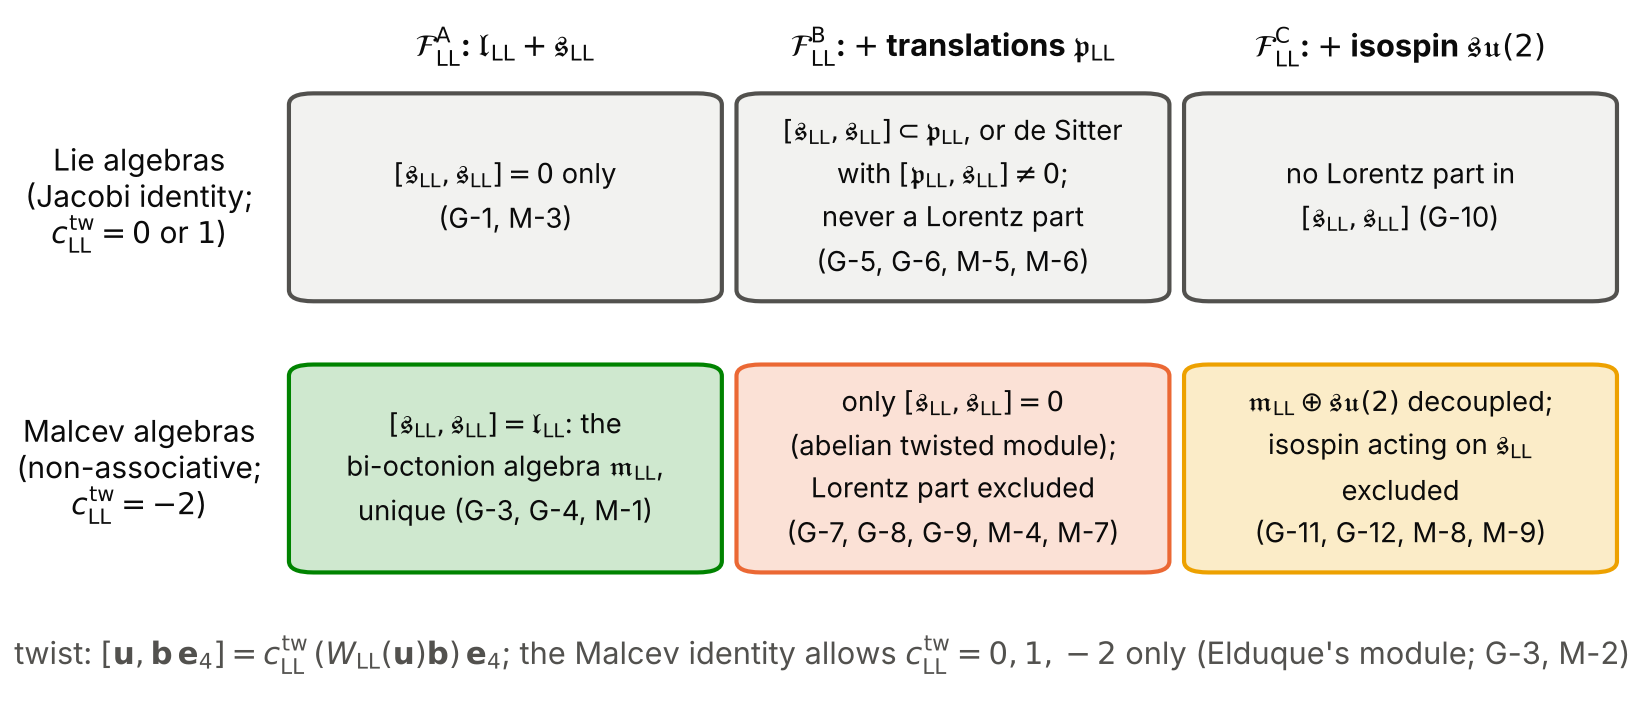
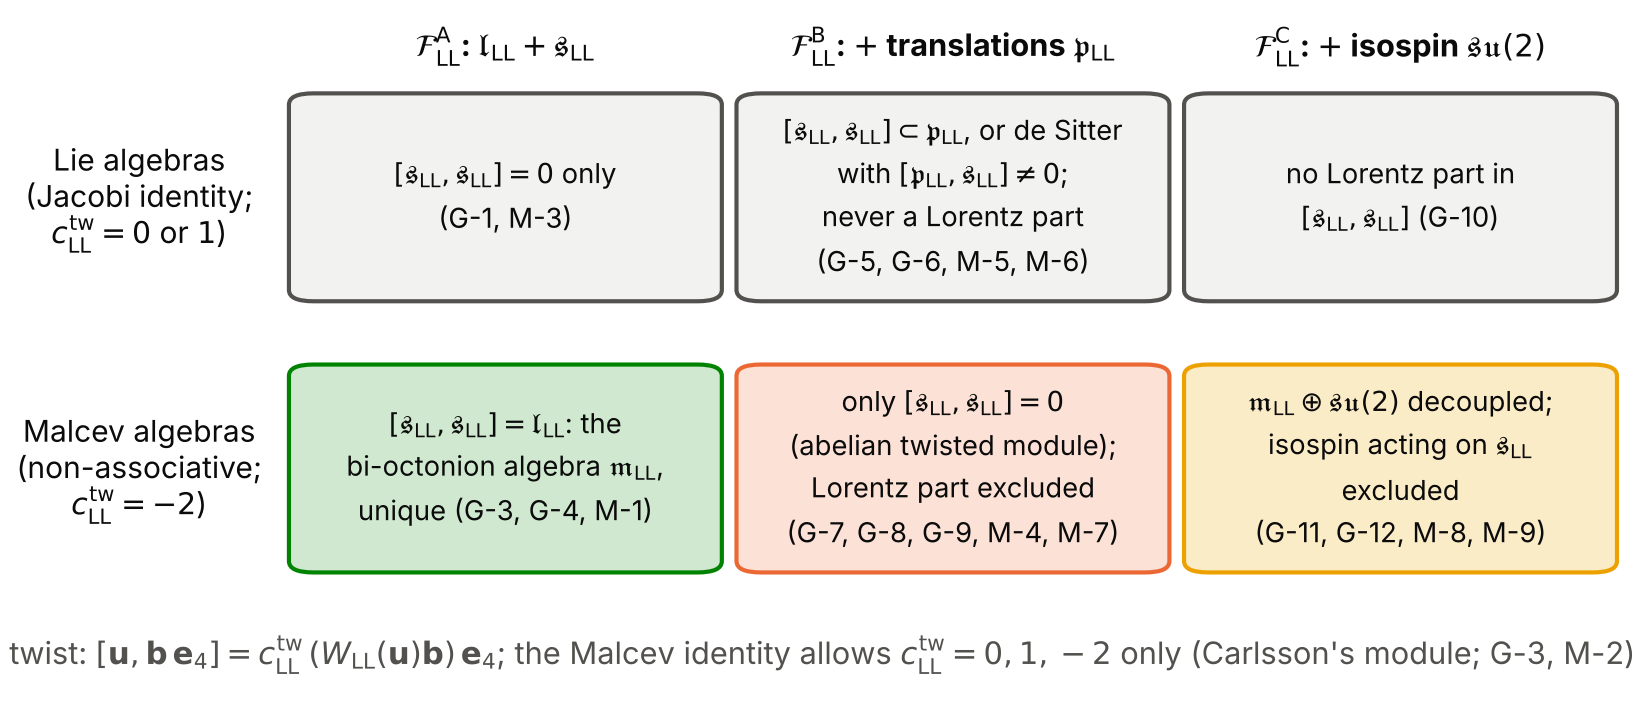
Revision_SuperLoop, stage 3b: two corrections in the program and a figure
* Check M-2 and Fig. classification: the non-Lie Malcev module of sl(2)
  with the twist -2 is Carlsson's (J. Reine Angew. Math. 281, 199 (1976)),
  not Elduque's; credit corrected.
* Check S-7: the charge of the condensed pairs is now computed for the same
  order parameter dvec = (1, i, 0) whose stabilizer is computed (before, the
  charge was taken from (1, -i, 0)); the condensate of that state consists
  of two isospin-up spinor charges, Q_LL = +1.  The reports print the
  charges as numbers (0, +1, -1).
* The theorems of the superfluid are labelled SF1 to SF4 (S1 to S4 are the
  names of provenance documents of the main project).

Program: 62 of 62 checks pass.

Claude-Session: https://claude.ai/code/session_014iqUsHxBwoPN6qWYQYTGBy

Changed region(s): [[0.0, 0.8973, 0.9921, 0.9592]]

diff --git a/Revision_SuperLoop/code/superloop-rs/src/superfluid.rs b/Revision_SuperLoop/code/superloop-rs/src/superfluid.rs
@@ -7,7 +7,7 @@
 //! isospin generators of this field from the bi-octonion product.
 //!
 //! Hamiltonian (units: momentum cutoff Lambda = 1 unless stated):
-//!   H = sum_q Psi_LL^dag (h(q) - mu) Psi_LL - (G/4) sum_iota Pi_iota^dag Pi_iota,
+//!   Hsf = sum_q Psi_LL^dag (h(q) - mu) Psi_LL - (G/4) sum_iota Pi_iota^dag Pi_iota,
 //!   h(q) = sum_j alpha_LL^j q^j + beta_LL m (x) 1_iso,   Pi_iota = Psi_LL^T Kch_iota Psi_LL,
 //! with the spin-zero (Lorentz-scalar) pair channels Kch_iota = C_LL gamma_ch (x) eps2 tau_iota
 //! (scalar, 0+) and Kch'_iota = C_LL (x) eps2 tau_iota (pseudoscalar, 0-), iota = 1,2,3 (an isospin
@@ -463,7 +463,7 @@ pub fn run() -> bool {
         }
         trip &= close(&acc, &scal(kk, c(2.0, 0.0)), 1e-11);
     }
-    ck.add("S-1", "Theorem S1 (spin-zero channels): the antisymmetric, Lorentz-invariant pair matrices on Dirac (x) isospin form a complex space of dimension 6, spanned by Kch_iota = C_LL gamma_ch (x) eps2 tau_iota (scalar 0+) and Kch'_iota = C_LL (x) eps2 tau_iota (pseudoscalar 0-), iota = 1,2,3; each is unitary and an isospin TRIPLET (Casimir 2): a spin-zero s-wave pair of spinor charges carries isospin 1 and electric charge Q_LL = +1, 0, -1", ch_ok && nullity == 12 && trip, format!("real nullity {} (= 6 complex dimensions)", nullity));
+    ck.add("S-1", "Theorem SF1 (spin-zero channels): the antisymmetric, Lorentz-invariant pair matrices on Dirac (x) isospin form a complex space of dimension 6, spanned by Kch_iota = C_LL gamma_ch (x) eps2 tau_iota (scalar 0+) and Kch'_iota = C_LL (x) eps2 tau_iota (pseudoscalar 0-), iota = 1,2,3; each is unitary and an isospin TRIPLET (Casimir 2): a spin-zero s-wave pair of spinor charges carries isospin 1 and electric charge Q_LL = +1, 0, -1", ch_ok && nullity == 12 && trip, format!("real nullity {} (= 6 complex dimensions)", nullity));
 
     // charges of the channels: Q_LL = T_LL^3 summed over the pair; Kch_3 pairs (up, down): 0; Kch_1 -+ i Kch_2 pair (up,up)/(down,down)
     let t3 = kron(&CMat::identity(4), &scal(&d.sig[3], c(0.5, 0.0)));
@@ -477,10 +477,11 @@ pub fn run() -> bool {
         }
         None
     };
+    let fq = |q: Option<f64>| -> String { match q { Some(v) if v > 0.5 => "+1".to_string(), Some(v) if v < -0.5 => "-1".to_string(), Some(_) => "0".to_string(), None => "none".to_string() } };
     let kplus = ks[0].sub(&scal(&ks[1], c(0.0, 1.0)));
     let kminus = ks[0].add(&scal(&ks[1], c(0.0, 1.0)));
     let qs = (qcharge(&ks[2]), qcharge(&kplus), qcharge(&kminus));
-    ck.add("S-2", "electric charge of the spin-zero channels (charge of the pair operator Psi_LL^T Kch Psi_LL, which annihilates two spinor charges): Kch_3 pairs up with down, charge 0; Kch_1 - i Kch_2 and Kch_1 + i Kch_2 pair up-up and down-down, charges +1 and -1", qs == (Some(0.0), Some(1.0), Some(-1.0)) || qs == (Some(0.0), Some(-1.0), Some(1.0)), format!("Q_LL(Kch_3) = {:?}, Q_LL(Kch_1 - i Kch_2) = {:?}, Q_LL(Kch_1 + i Kch_2) = {:?}", qs.0, qs.1, qs.2));
+    ck.add("S-2", "electric charge of the spin-zero channels (charge of the pair operator Psi_LL^T Kch Psi_LL, which annihilates two spinor charges): Kch_3 pairs up with down, charge 0; Kch_1 - i Kch_2 and Kch_1 + i Kch_2 pair up-up and down-down, charges +1 and -1", qs == (Some(0.0), Some(1.0), Some(-1.0)) || qs == (Some(0.0), Some(-1.0), Some(1.0)), format!("Q_LL(Kch_3) = {}, Q_LL(Kch_1 - i Kch_2) = {}, Q_LL(Kch_1 + i Kch_2) = {}", fq(qs.0), fq(qs.1), fq(qs.2)));
 
     // ---------------- S-3: BdG spectra ----------------
     let mut spec_ok = true;
@@ -529,7 +530,7 @@ pub fn run() -> bool {
         }
     }
     spec_ok &= worst < 1e-10;
-    ck.add("S-3", "Theorem S2 (spectra; 60 random momenta, masses, chemical potentials and order parameters dvec in C^3, double precision): in the scalar channel the 8 positive BdG energies are E^+(Delta_+), E^-(Delta_+), E^+(Delta_-), E^-(Delta_-) (each twice) with E^(+-)(Delta) = [(eps +- mu)^2 + Delta^2]^(1/2), eps = (q^2 + m^2)^(1/2), and the two gaps Delta_(+-)^2 = |dvec|^2 (1 +- zeta), zeta = |cross(dvec, dvec^*)| / |dvec|^2 (unitary states: zeta = 0; non-unitary: two gaps); in the pseudoscalar channel (unitary dvec) Etilde^(+-) = [q^2 + m^2 + mu^2 + Delta^2 +- 2 (mu^2 (q^2 + m^2) + m^2 Delta^2)^(1/2)]^(1/2), each four times", spec_ok, format!("largest deviation {:.2e}", worst));
+    ck.add("S-3", "Theorem SF2 (spectra; 60 random momenta, masses, chemical potentials and order parameters dvec in C^3, double precision): in the scalar channel the 8 positive BdG energies are E^+(Delta_+), E^-(Delta_+), E^+(Delta_-), E^-(Delta_-) (each twice) with E^(+-)(Delta) = [(eps +- mu)^2 + Delta^2]^(1/2), eps = (q^2 + m^2)^(1/2), and the two gaps Delta_(+-)^2 = |dvec|^2 (1 +- zeta), zeta = |cross(dvec, dvec^*)| / |dvec|^2 (unitary states: zeta = 0; non-unitary: two gaps); in the pseudoscalar channel (unitary dvec) Etilde^(+-) = [q^2 + m^2 + mu^2 + Delta^2 +- 2 (mu^2 (q^2 + m^2) + m^2 Delta^2)^(1/2)]^(1/2), each four times", spec_ok, format!("largest deviation {:.2e}", worst));
 
     // ---------------- S-4: gap equation and critical coupling ----------------
     let rad0 = Radial::new(1.0, 0.0, 40);
@@ -598,7 +599,7 @@ pub fn run() -> bool {
         rows_z.push(vec![zeta, xm, f(xm), omega_scalar(&rad, gsel, mm, mu0, dl * dl, zeta)]);
     }
     let increasing = omins.windows(2).all(|w| w[1] > w[0]);
-    ck.add("S-6", "Theorem S3 (the unitary state wins): at G = 12, mu = 0.5, m = 0.2 the minimum over |dvec| of Omega increases strictly with zeta from the unitary (polar) state zeta = 0 to the fully charged state zeta = 1 (concavity of E^(+-) in Delta^2): the ground state is a unitary isospin-triplet condensate", increasing, format!("minimum of Omega at zeta = 0: {:.6e}, at zeta = 1: {:.6e}", omins[0], omins[10]));
+    ck.add("S-6", "Theorem SF3 (the unitary state wins): at G = 12, mu = 0.5, m = 0.2 the minimum over |dvec| of Omega increases strictly with zeta from the unitary (polar) state zeta = 0 to the fully charged state zeta = 1 (concavity of E^(+-) in Delta^2): the ground state is a unitary isospin-triplet condensate", increasing, format!("minimum of Omega at zeta = 0: {:.6e}, at zeta = 1: {:.6e}", omins[0], omins[10]));
 
     // ---------------- S-10 (placed here): scalar versus pseudoscalar channel ----------------
     let golden = |f: &dyn Fn(f64) -> f64, hi: f64| -> (f64, f64) {
@@ -655,9 +656,10 @@ pub fn run() -> bool {
     let ferro = [c(1.0, 0.0), c(0.0, 1.0), c(0.0, 0.0)];
     let (rp, sp) = rank_stab(&polar);
     let (rf, sf) = rank_stab(&ferro);
+    // the condensed pair matrix of the state dvec is sum_iota conj(d_iota) Kch_iota = Ppair^dag (Ppair = sum d_iota Kch_iota^dag)
     let qpolar = qcharge(&pairing(&ks, &polar).dagger());
-    let qferro = qcharge(&pairing(&ks, &[c(1.0, 0.0), c(0.0, -1.0), c(0.0, 0.0)]).dagger());
-    ck.add("S-7", "symmetry breaking under SU(2)_v x U(1)_F_LL (isospin and fermion number, 4 generators): the polar state dvec = (0,0,1) keeps the rotations about the 3-axis (stabilizer of dimension 1; the electric charge Q_LL = T_LL^3 stays unbroken: a neutral superfluid), the charged state dvec = (1, i, 0) keeps one combination of T_LL^3 and F_LL (stabilizer 1; the condensate carries charge 1); both break 3 generators", rp == 3 && sp == 1 && rf == 3 && sf == 1 && qpolar == Some(0.0) && qferro.is_some(), format!("polar: broken {}, stabilizer {}, Q_LL = {:?}; charged: broken {}, stabilizer {}, Q_LL = {:?}", rp, sp, qpolar, rf, sf, qferro));
+    let qferro = qcharge(&pairing(&ks, &ferro).dagger());
+    ck.add("S-7", "symmetry breaking under SU(2)_v x U(1)_F_LL (isospin and fermion number, 4 generators): the polar state dvec = (0,0,1) keeps the rotations about the 3-axis (stabilizer of dimension 1; the electric charge Q_LL = T_LL^3 stays unbroken: a neutral superfluid), the charged state dvec = (1, i, 0) keeps one combination of T_LL^3 and F_LL (stabilizer 1; its condensed pairs Psi_LL^T (Kch_1 - i Kch_2) Psi_LL consist of two isospin-up spinor charges, charge Q_LL = +1); both break 3 generators", rp == 3 && sp == 1 && rf == 3 && sf == 1 && qpolar == Some(0.0) && qferro == Some(1.0), format!("polar: broken {}, stabilizer {}, pair charge {}; charged: broken {}, stabilizer {}, pair charge {}", rp, sp, fq(qpolar), rf, sf, fq(qferro)));
 
     // ---------------- S-8: the octonionic two-species channel ----------------
     // two isodoublets bS and bS'; product (bS e4)(bS' e4) = -bS'bar bS = scalar part + part in l_LL
@@ -724,7 +726,7 @@ pub fn run() -> bool {
         // symmetry: M_0 symmetric (only distinct species pair in it), imaginary parts antisymmetric
         let sym0 = close(&mats[0], &mats[0].transpose(), 1e-14);
         let anti = (1..4).all(|a| close(&mats[a], &scal(&mats[a].transpose(), c(-1.0, 0.0)), 1e-14));
-        ck.add("S-8", "the octonionic Cooper pair of two spinor-charge fields: (bS e4)(bS' e4) = -bS'bar bS splits into the scalar part -N_LL(bS', bS) (Lorentz scalar AND isospin singlet: spin 0, isospin 0, charge 0: the super-loop singlet) and the imaginary part, which lies in the Lorentz part l_LL (spin 1, isospin 0: the Malcev bracket); the scalar part is SYMMETRIC in the two fields, so it vanishes for one fermion field and needs two species (Theorem S4)", inv0 && invi && rot && sym0 && anti, String::new());
+        ck.add("S-8", "the octonionic Cooper pair of two spinor-charge fields: (bS e4)(bS' e4) = -bS'bar bS splits into the scalar part -N_LL(bS', bS) (Lorentz scalar AND isospin singlet: spin 0, isospin 0, charge 0: the super-loop singlet) and the imaginary part, which lies in the Lorentz part l_LL (spin 1, isospin 0: the Malcev bracket); the scalar part is SYMMETRIC in the two fields, so it vanishes for one fermion field and needs two species (Theorem SF4)", inv0 && invi && rot && sym0 && anti, String::new());
     }
     // two-species singlet BdG: Psi_LL of two species, pairing matrix Kch_singlet = C_LL gamma_ch (x) eps2 (x) eps2: spectrum E^(+-), each 8 times
     {

diff --git a/Revision_SuperLoop/code/scripts/make_figures.py b/Revision_SuperLoop/code/scripts/make_figures.py
@@ -248,7 +248,7 @@ def fig_classification():
             p = FancyBboxPatch((x, y), 0.25, 0.26, boxstyle="round,pad=0.008,rounding_size=0.015", fc=fc, ec=ec, lw=1.0)
             ax.add_patch(p)
             ax.text(x + 0.125, y + 0.13, t, ha="center", va="center", fontsize=6.6, linespacing=1.3)
-    ax.text(0.5, 0.13, "twist: $[\\mathbf{u},\\mathbf{b}\\,\\mathbf{e}_4]=c^{\\rm tw}_{\\rm LL}\\,(W_{\\rm LL}(\\mathbf{u})\\mathbf{b})\\,\\mathbf{e}_4$; the Malcev identity allows $c^{\\rm tw}_{\\rm LL}=0,1,-2$ only (Elduque's module; G-3, M-2)", ha="center", fontsize=7.4, color=INK2)
+    ax.text(0.5, 0.13, "twist: $[\\mathbf{u},\\mathbf{b}\\,\\mathbf{e}_4]=c^{\\rm tw}_{\\rm LL}\\,(W_{\\rm LL}(\\mathbf{u})\\mathbf{b})\\,\\mathbf{e}_4$; the Malcev identity allows $c^{\\rm tw}_{\\rm LL}=0,1,-2$ only (Carlsson's module; G-3, M-2)", ha="center", fontsize=7.4, color=INK2)
     save(fig, "classification")
 
 

diff --git a/Revision_SuperLoop/code/superloop-rs/src/malcev.rs b/Revision_SuperLoop/code/superloop-rs/src/malcev.rs
@@ -356,7 +356,7 @@ pub fn run() -> bool {
         mal_all &= mal;
         lie_all &= lie == (lam != -2);
     }
-    ck.add("M-2", "F_A with c_sl = 0: the twists c_tw = 0, 1, -2 give Malcev algebras (exhaustive); c_tw = 0 and c_tw = 1 give Lie algebras, c_tw = -2 does not (Elduque's non-Lie module of sl(2))", lie_all && mal_all, String::new());
+    ck.add("M-2", "F_A with c_sl = 0: the twists c_tw = 0, 1, -2 give Malcev algebras (exhaustive); c_tw = 0 and c_tw = 1 give Lie algebras, c_tw = -2 does not (Carlsson's non-Lie Malcev module of sl(2))", lie_all && mal_all, String::new());
     let mut excluded = true;
     let mut wit = String::new();
     for (lam, c) in [(1i128, 1i128), (0, 1), (2, 0), (-1, 0), (3, 0)] {
